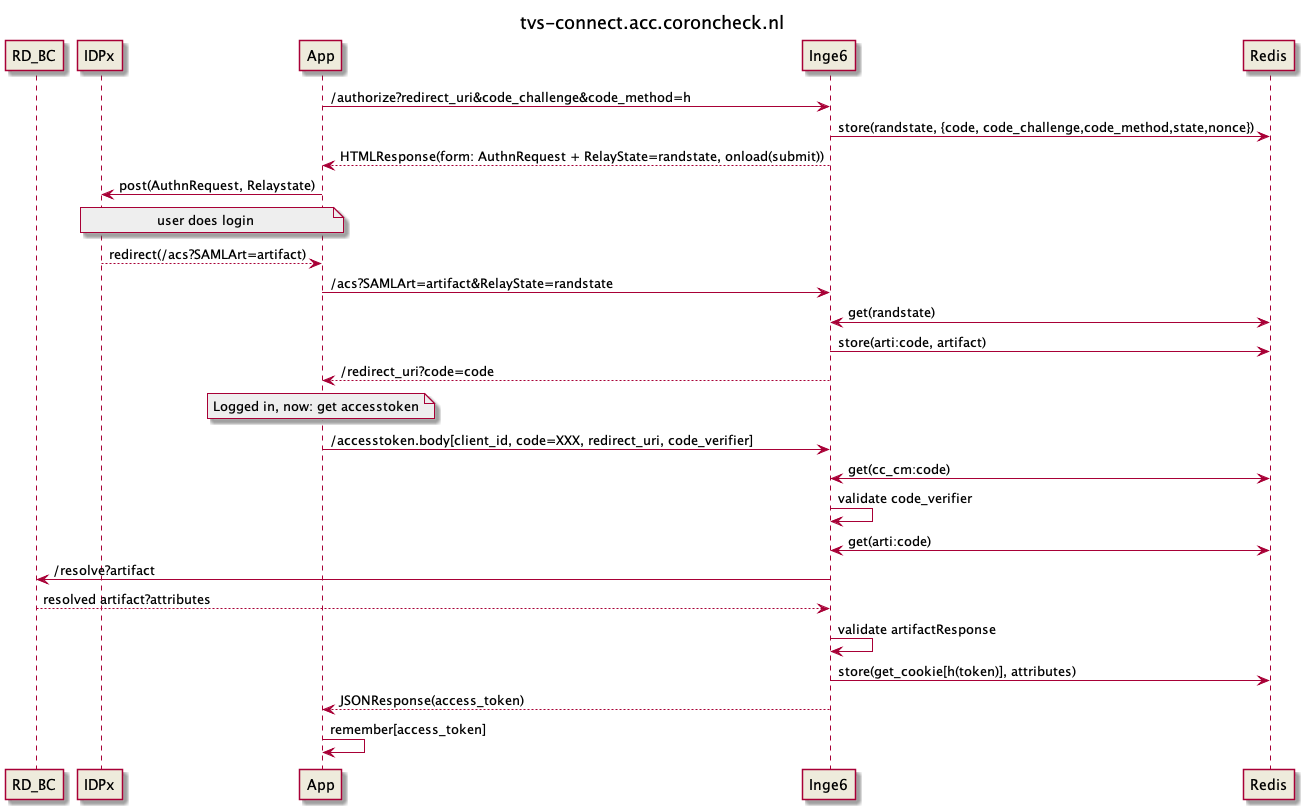
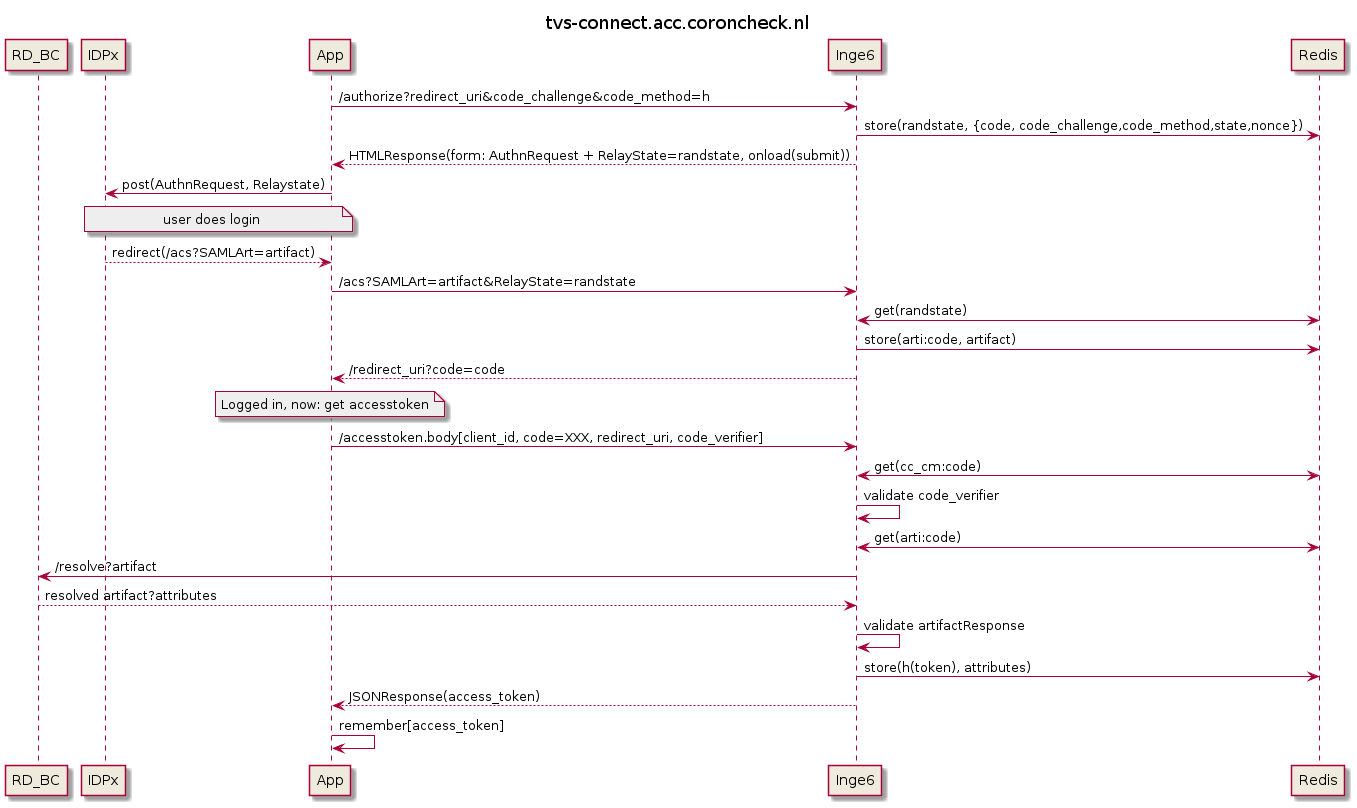
chore: small image update & readme update (#127)
* chore: small image update & readme update

* redis store replace

diff --git a/README.md b/README.md
@@ -34,6 +34,13 @@ Redis is the store of this service. It is used to temporarily store data acquire
 ## SSL (local development)
 An SSL connection is usually required, also in an development environment. To set this up, please define where to find the certificates and keys in the settings file under the `ssl` header.
 
+# Dependencies
+
+Make sure to install the following dependencies: 
+```
+sudo apt-get update && sudo apt-get install libxmlsec1-dev
+```
+
 # Running the service
 Make sure you followed the steps for the regular Setup, then run:
 ```bash
